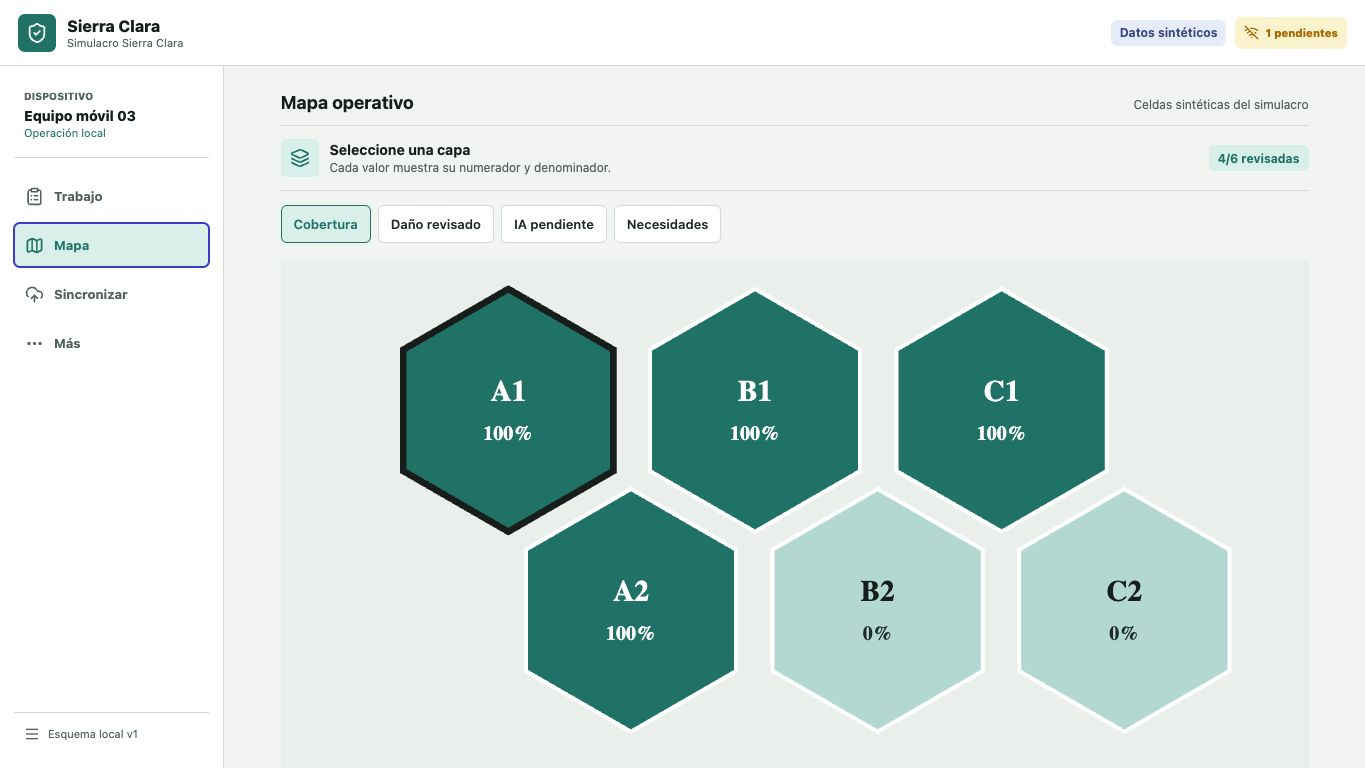
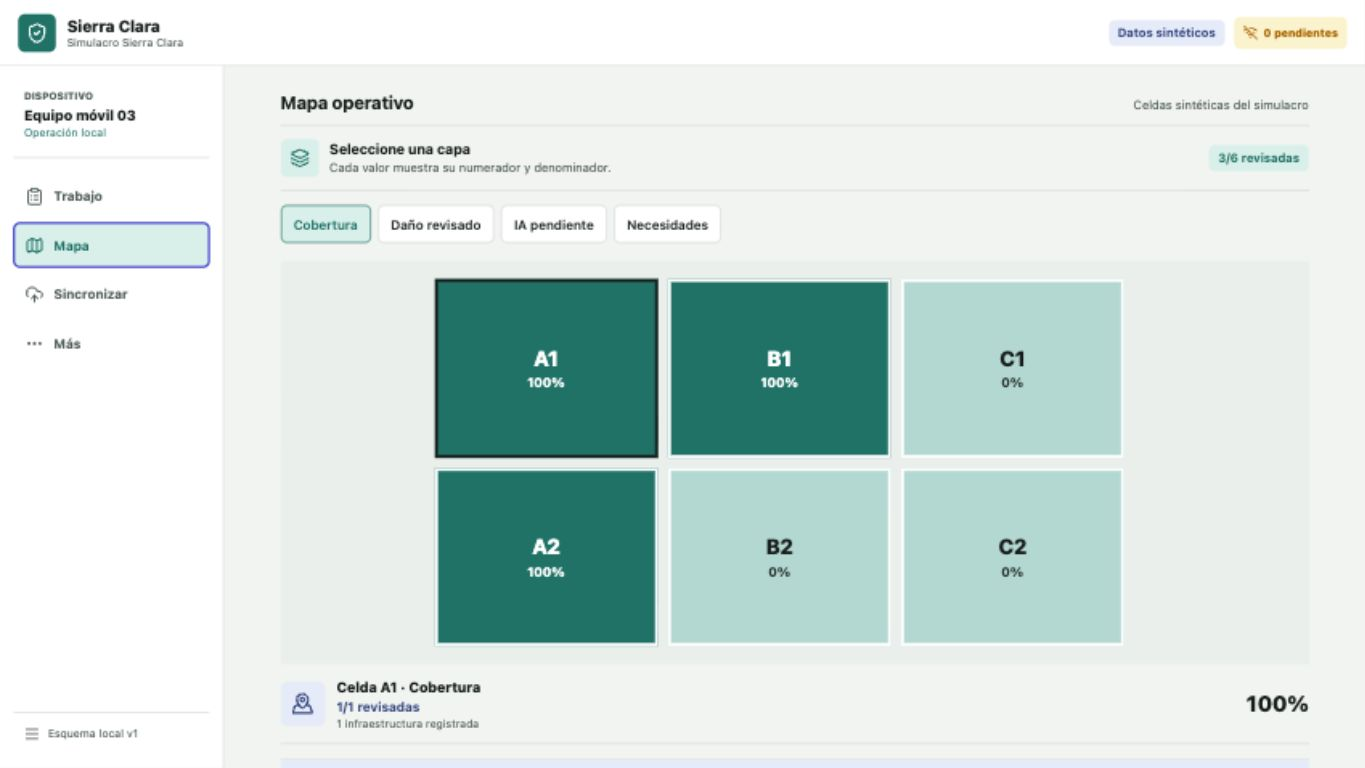
DNA-84 harden offline map updates

diff --git a/apps/mobile/src/components/MapDashboard.tsx b/apps/mobile/src/components/MapDashboard.tsx
@@ -1,7 +1,6 @@
 import { Layers3, MapPinned } from 'lucide-react-native';
 import { useMemo, useState } from 'react';
 import { Pressable, StyleSheet, Text, View } from 'react-native';
-import Svg, { Polygon, Text as SvgText } from 'react-native-svg';
 
 import { computeGridMetrics } from '../domain/analytics';
 import { AppState, MapLayer } from '../domain/types';
@@ -24,12 +23,6 @@ const colorFor = (layer: MapLayer, value: number | null) => {
   if (layer === 'pending_ai') return strong ? '#B96B09' : medium ? '#E0A54C' : '#F3D69C';
   return strong ? '#315A8A' : medium ? '#7C9FC5' : '#BFD0E2';
 };
-
-const hexPoints = (cx: number, cy: number, radius: number) =>
-  Array.from({ length: 6 }, (_, index) => {
-    const angle = (Math.PI / 180) * (60 * index - 30);
-    return `${cx + radius * Math.cos(angle)},${cy + radius * Math.sin(angle)}`;
-  }).join(' ');
 
 export const MapDashboard = ({ state }: { state: AppState }) => {
   const [layer, setLayer] = useState<MapLayer>('coverage');
@@ -61,58 +54,33 @@ export const MapDashboard = ({ state }: { state: AppState }) => {
       />
 
       <View style={styles.mapBand}>
-        <Svg width="100%" height="100%" viewBox="0 0 720 390">
+        <View style={styles.mapGrid}>
           {metrics.map((metric) => {
-            const cx = 145 + metric.x * 185 + (metric.y % 2) * 92;
-            const cy = 112 + metric.y * 150;
             const selectedNow = metric.cellId === selectedCell;
+            const darkText = metric.value === null || metric.value < 0.4;
             return (
-              <Polygon
+              <Pressable
                 key={metric.cellId}
-                points={hexPoints(cx, cy, 91)}
-                fill={colorFor(layer, metric.value)}
-                stroke={selectedNow ? colors.ink : colors.white}
-                strokeWidth={selectedNow ? 5 : 3}
-              />
-            );
-          })}
-          {metrics.map((metric) => {
-            const cx = 145 + metric.x * 185 + (metric.y % 2) * 92;
-            const cy = 112 + metric.y * 150;
-            const darkText = metric.value === null || metric.value < 0.4;
-            return (
-              <SvgText
-                key={`label-${metric.cellId}`}
-                x={cx}
-                y={cy - 7}
-                textAnchor="middle"
-                fontSize="22"
-                fontWeight="700"
-                fill={darkText ? colors.ink : colors.white}
+                accessibilityRole="button"
+                accessibilityLabel={`Celda ${metric.cellId}, ${metric.label}`}
+                onPress={() => setSelectedCell(metric.cellId)}
+                style={({ pressed }) => [
+                  styles.mapCell,
+                  { backgroundColor: colorFor(layer, metric.value) },
+                  selectedNow && styles.mapCellSelected,
+                  pressed && styles.mapCellPressed,
+                ]}
               >
-                {metric.cellId}
-              </SvgText>
+                <Text style={[styles.mapCellName, { color: darkText ? colors.ink : colors.white }]}>
+                  {metric.cellId}
+                </Text>
+                <Text style={[styles.mapCellValue, { color: darkText ? colors.dark : colors.white }]}>
+                  {metric.denominator === 0 ? 'sin datos' : `${Math.round((metric.value ?? 0) * 100)}%`}
+                </Text>
+              </Pressable>
             );
           })}
-          {metrics.map((metric) => {
-            const cx = 145 + metric.x * 185 + (metric.y % 2) * 92;
-            const cy = 112 + metric.y * 150;
-            const darkText = metric.value === null || metric.value < 0.4;
-            return (
-              <SvgText
-                key={`value-${metric.cellId}`}
-                x={cx}
-                y={cy + 22}
-                textAnchor="middle"
-                fontSize="15"
-                fontWeight="600"
-                fill={darkText ? colors.dark : colors.white}
-              >
-                {metric.denominator === 0 ? 'sin datos' : `${Math.round((metric.value ?? 0) * 100)}%`}
-              </SvgText>
-            );
-          })}
-        </Svg>
+        </View>
       </View>
 
       {selected ? (
@@ -135,6 +103,8 @@ export const MapDashboard = ({ state }: { state: AppState }) => {
         {metrics.map((metric) => (
           <Pressable
             key={metric.cellId}
+            accessibilityRole="button"
+            accessibilityLabel={`Seleccionar celda ${metric.cellId}: ${metric.label}`}
             onPress={() => setSelectedCell(metric.cellId)}
             style={[styles.cellRow, selectedCell === metric.cellId && styles.cellRowSelected]}
           >
@@ -169,12 +139,41 @@ const styles = StyleSheet.create({
   headingText: { color: colors.muted, fontSize: 12, marginTop: 2 },
   mapBand: {
     width: '100%',
-    aspectRatio: 1.75,
-    minHeight: 300,
-    maxHeight: 520,
     marginTop: 18,
     backgroundColor: '#EDF1EF',
-    overflow: 'hidden',
+    padding: 18,
+  },
+  mapGrid: {
+    width: '100%',
+    maxWidth: 720,
+    alignSelf: 'center',
+    flexDirection: 'row',
+    flexWrap: 'wrap',
+    gap: 10,
+  },
+  mapCell: {
+    width: '31%',
+    minWidth: 92,
+    aspectRatio: 1.25,
+    borderWidth: 3,
+    borderColor: colors.white,
+    alignItems: 'center',
+    justifyContent: 'center',
+  },
+  mapCellSelected: {
+    borderColor: colors.ink,
+  },
+  mapCellPressed: {
+    opacity: 0.78,
+  },
+  mapCellName: {
+    fontSize: 21,
+    fontWeight: '800',
+  },
+  mapCellValue: {
+    marginTop: 4,
+    fontSize: 13,
+    fontWeight: '700',
   },
   selectedBand: {
     minHeight: 80,

diff --git a/apps/mobile/public/sw.js b/apps/mobile/public/sw.js
@@ -1,4 +1,4 @@
-const CACHE = 'sierra-clara-v1';
+const CACHE = 'sierra-clara-v2';
 const CORE = ['/', '/manifest.json', '/icon-192.png', '/icon-512.png'];
 
 self.addEventListener('install', (event) => {
@@ -17,27 +17,18 @@ self.addEventListener('activate', (event) => {
 
 self.addEventListener('fetch', (event) => {
   if (event.request.method !== 'GET') return;
-  if (event.request.mode === 'navigate') {
-    event.respondWith(
-      fetch(event.request)
-        .then((response) => {
-          const copy = response.clone();
-          caches.open(CACHE).then((cache) => cache.put('/', copy));
-          return response;
-        })
-        .catch(() => caches.match('/')),
-    );
-    return;
-  }
   event.respondWith(
-    caches.match(event.request).then((cached) => {
-      if (cached) return cached;
-      return fetch(event.request).then((response) => {
-        if (!response || response.status !== 200 || response.type === 'opaque') return response;
+    fetch(event.request)
+      .then((response) => {
+        if (!response || response.status !== 200 || response.type === 'opaque') {
+          return response;
+        }
         const copy = response.clone();
         caches.open(CACHE).then((cache) => cache.put(event.request, copy));
         return response;
-      });
-    }),
+      })
+      .catch(() =>
+        caches.match(event.request).then((cached) => cached ?? caches.match('/')),
+      ),
   );
 });
